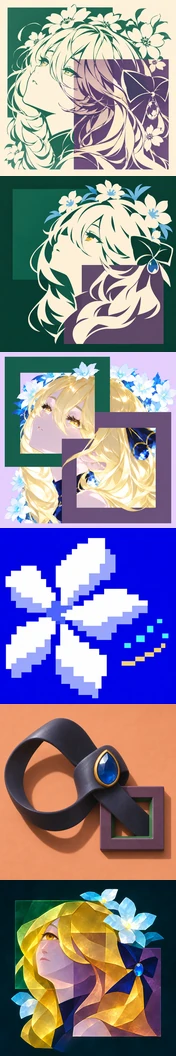
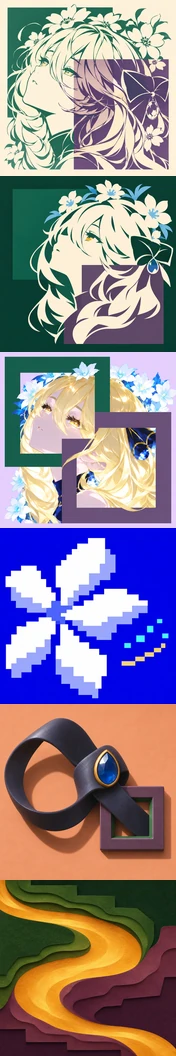
art: replace the glass portrait record with Riverbend

Changed region(s): [[0.0, 0.8125, 1.0, 1.0]]

diff --git a/src/lib/record-prints.ts b/src/lib/record-prints.ts
@@ -1,7 +1,8 @@
 import prints from '../data/record-prints.json' with { type: 'json' }
 
-// Stored indices refer to this exact set and order of illustrations.
-const key = 'nisconder-record-prints:' + prints.join(',')
+// Riverbend replaces the artwork in the old glass slot. Existing tracks keep their slots.
+const slotIds = prints.map(print => print === 'riverbend' ? 'glass' : print)
+const key = 'nisconder-record-prints:' + slotIds.join(',')
 let assigned: Map<string, number> | undefined
 
 function restore() {
